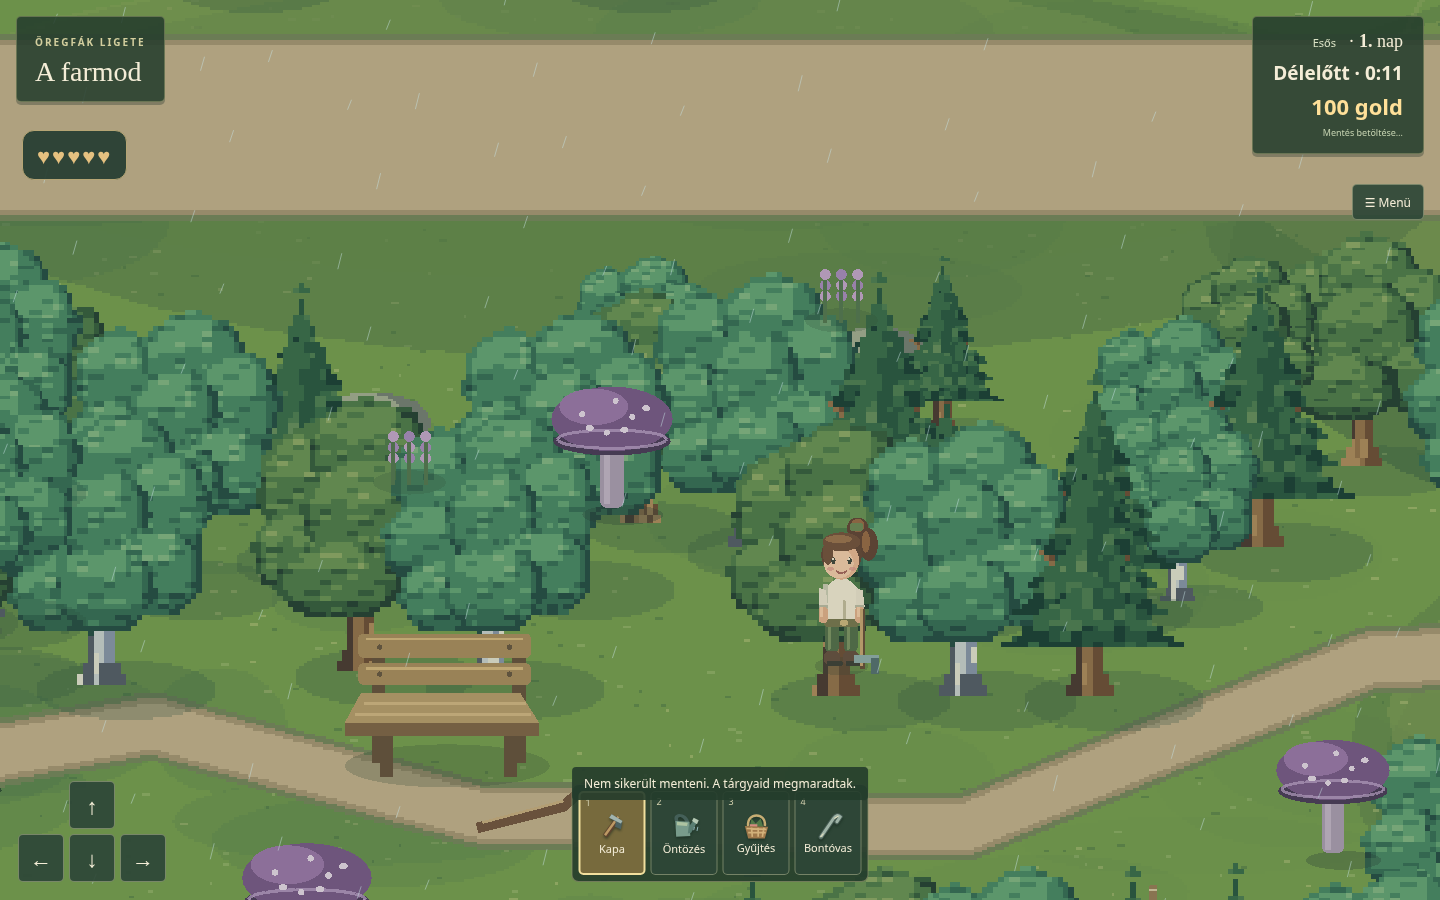
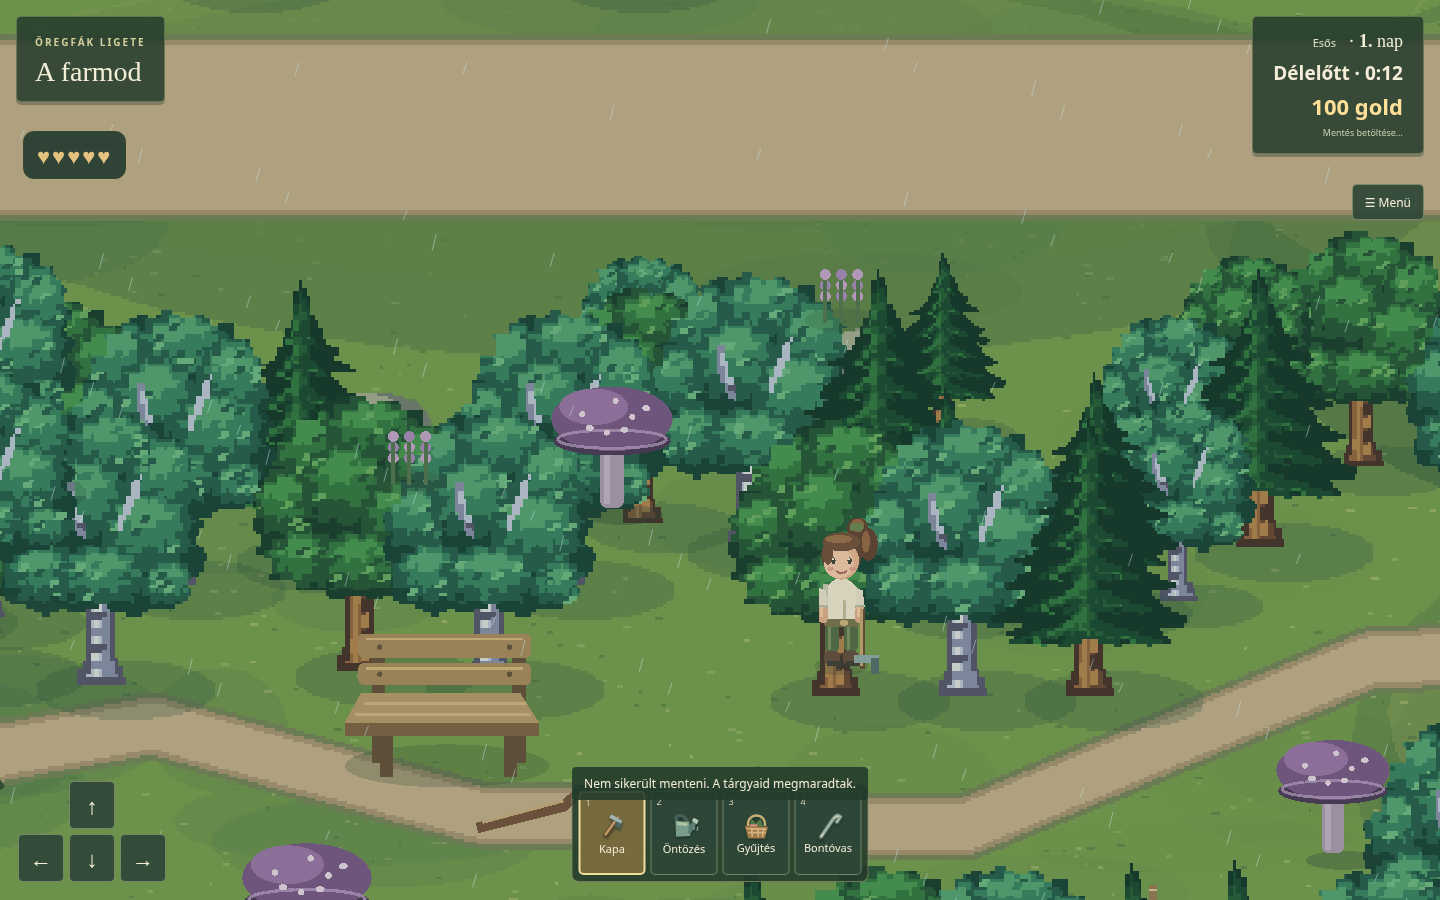
Rebuild woodland tree silhouettes and leaf folds from visual reference

diff --git a/src/woodland-tree.ts b/src/woodland-tree.ts
@@ -1,71 +1,81 @@
 import {natureTreeClear} from './nature-resources';
 import type Phaser from 'phaser';
 
-// Original pixel drawing inspired by the supplied reference; no external asset is used.
-// Logical pixels stay in the former tree envelope. Runs keep the static drawing small.
+// Hand-shaped original pixel silhouettes and leaf folds, using the user's image
+// as a style reference. World anchors, size and shared random consumption stay fixed.
 export function drawWoodlandTree(g:Phaser.GameObjects.Graphics,random:()=>number,x:number,y:number,kind:number,s=1){
  if(!natureTreeClear(x,y,s))return;
- let seed=0;
- if(kind!==2)for(let i=0;i<264;i++)seed=(seed+Math.floor(random()*65535))>>>0;
- const width=44,height=53,pixels=new Int32Array(width*height).fill(-1);
- const hash=(a:number,b:number)=>((Math.imul(a+seed,374761393)^Math.imul(b+17,668265263))>>>0);
- const put=(px:number,py:number,c:number)=>{const xx=Math.round(px/2)+22,yy=Math.round((py+100)/2);if(xx>=0&&xx<width&&yy>=0&&yy<height)pixels[yy*width+xx]=c;};
+ let seed=0;if(kind!==2)for(let i=0;i<264;i++)seed=(seed+Math.floor(random()*65535))>>>0;
+ const pixel=1.5,width=56,height=70,data=new Int32Array(width*height).fill(-1);
+ const hash=(a:number,b:number)=>((Math.imul(a+seed,374761393)^Math.imul(b+19,668265263))>>>0);
+ const put=(xx:number,yy:number,c:number)=>{const a=Math.round(xx/pixel)+28,b=Math.round((yy+99)/pixel);if(a>=0&&a<width&&b>=0&&b<height)data[b*width+a]=c;};
+ const shape=(points:number[],color:number)=>{
+  const ys=points.filter((_,i)=>i%2),min=Math.min(...ys),max=Math.max(...ys);
+  for(let row=Math.ceil((min+99)/pixel);row<=Math.floor((max+99)/pixel);row++){
+   const yy=row*pixel-99,cross:number[]=[];
+   for(let i=0,j=points.length-2;i<points.length;j=i,i+=2){const ax=points[j],ay=points[j+1],bx=points[i],by=points[i+1];if((ay>yy)!==(by>yy))cross.push(ax+(yy-ay)*(bx-ax)/(by-ay));}
+   cross.sort((a,b)=>a-b);
+   for(let k=0;k+1<cross.length;k+=2)for(let col=Math.ceil(cross[k]/pixel);col<=Math.floor(cross[k+1]/pixel);col++)put(col*pixel,yy,color);
+  }
+ };
  const birch=kind===1;
- const bark=birch?[0x535b61,0x8794a3,0xc7cec7,0xe0dfc8]:[0x49382b,0x6d4c30,0x927044,0xad8956];
- // Roots, taper and forked branches are visible between the leaf masses.
- for(let py=-55;py<=4;py+=2)for(let px=-8;px<=8;px+=2){
-  const root=py>0?8:py> -5?6:4;
-  if(Math.abs(px)>root)continue;
-  const h=hash(Math.floor(px/3),Math.floor(py/7));
-  let c=bark[px< -2?0:px<1?2:1];if(h%9===0)c=bark[3];
-  if(birch&&Math.floor((py+3)/8)%3===0&&px> -2)c=bark[0];
-  put(px,py,c);
+ const bark=birch?[0x545566,0x878fa5,0xbcc5d1,0xdce0da]:[0x453224,0x69472e,0x926539,0xb08349];
+ // Flared roots and a tapered trunk, with broad bark facets rather than dots.
+ shape([-9,5,-8,0,-5,-5,-5,-49,-2,-58,4,-55,5,-7,8,-1,10,5],bark[0]);
+ shape([-5,3,-3,-8,-3,-50,0,-56,2,-43,2,-7,5,3],bark[2]);
+ shape([0,2,1,-20,0,-28,2,-34,2,-47,4,-42,4,-5,7,3],bark[1]);
+ shape([-4,-4,-2,-10,-2,-25,0,-29,0,-20,-1,-15,0,-7,-1,3],bark[3]);
+ if(kind!==2){
+ shape([-2,-29,-12,-42,-18,-54,-14,-57,-8,-45,2,-36],bark[1]);
+ shape([1,-38,11,-52,16,-65,19,-64,15,-49,4,-31],bark[2]);
  }
- for(const side of [-1,1])for(let j=0;j<18;j++){
-  const px=side*j*.9,py=-25-j*1.4;
-  put(px,py,bark[1]);put(px-2,py,bark[birch?2:2]);
+ for(let i=0;i<7;i++){
+  const yy=-3-i*6;
+  if(birch)shape([-4,yy,-1,yy-1,2,yy-1,3,yy+1,-3,yy+2],i%2?bark[0]:bark[1]);
+  else shape([1,yy,3,yy-3,4,yy-2,3,yy+3,1,yy+4],i%2?bark[0]:bark[3]);
  }
+ const palette=kind===2?[0x123624,0x19492b,0x235f32,0x2e773b,0x428b49]:birch?[0x174333,0x255d47,0x37825b,0x53a36d,0x6cb77e]:[0x183d28,0x245631,0x32783c,0x45964b,0x64a95a];
  if(kind===2){
-  const palette=[0x193d2e,0x28553a,0x386a43,0x4c7b4b,0x648b55];
-  // Broken, drooping branch tiers, rather than separate triangular plates.
+  // A single stepped outline with long irregular, downturned branch fans.
+  shape([0,-98,3,-92,3,-86,7,-83,8,-76,14,-72,13,-69,21,-65,16,-63,11,-64,16,-58,23,-54,20,-51,28,-48,23,-46,18,-47,24,-40,32,-36,27,-33,22,-34,30,-27,38,-23,33,-20,25,-21,31,-15,19,-14,10,-15,3,-19,-4,-16,-14,-14,-25,-15,-30,-18,-25,-21,-38,-23,-28,-28,-23,-33,-32,-34,-27,-38,-21,-42,-27,-45,-18,-49,-23,-52,-17,-57,-11,-61,-18,-63,-11,-67,-7,-73,-5,-80,-2,-84,-2,-93],palette[0]);
   for(let tier=0;tier<6;tier++){
-   const top=-96+tier*11,half=8+tier*5;
-   for(let py=top;py<=top+26;py+=2)for(let px=-half;px<=half;px+=2){
-    const t=(py-top)/26,edge=half*t+(hash(Math.floor(py/4),tier)%3-1)*1.4;
-    if(Math.abs(px)>edge)continue;
-    const branch=Math.floor((px+half)/6),ripple=(branch%2)*3;
-    const shade=py>top+21-ripple?0:px<0?2:1;
-    const needle=hash(Math.floor(px/4),Math.floor(py/4)+tier)%7;
-    put(px,py,palette[Math.min(4,shade+(needle===0?2:needle<3?1:0))]);
-   }
+   const cy=-88+tier*12,w=6+tier*5;
+   const fan=[0,cy-6,3,cy,3,cy+5,w*.5,cy+9,w,cy+14,w*.6,cy+14,w*.3,cy+11,w*.45,cy+16,1,cy+12,-w*.4,cy+16,-w*.25,cy+11,-w,cy+14,-w*.6,cy+9,-3,cy+5,-2,cy];
+   shape(fan,palette[1]);
+   shape([-1,cy-3,2,cy+3,0,cy+7,w*.65,cy+13,w*.25,cy+12,-1,cy+9,-w*.6,cy+13,-w*.3,cy+7],palette[2]);
+   shape([-1,cy,0,cy+5,-w*.4,cy+10,-w*.6,cy+11,-w*.3,cy+7],palette[3]);
+   for(let j=0;j<8;j++){const xx=(j-3.5)*w*.18,yy=cy+6+Math.abs(j-3.5)*1.5;shape([xx,yy,xx+1.5,yy+1.5,xx+4,yy+4,xx+1.5,yy+3,xx-1.5,yy+1.5],j%3?palette[1]:palette[3]);}
   }
  }else{
-  const palette=birch?[0x234b3d,0x346b4f,0x47865e,0x62a16e,0x80b37b]:[0x233f2c,0x345b36,0x4d7943,0x68904e,0x8ba65f];
-  const lobes=birch?[
-   [-19,-72,17,19],[7,-78,20,18],[24,-62,16,21],[-24,-48,17,16],[0,-57,17,20],
-   [19,-38,18,17],[-17,-29,17,14],[0,-32,19,17]
-  ]:[[-19,-63,19,23],[2,-77,23,19],[24,-62,16,21],[-23,-40,18,17],[2,-53,24,23],[23,-35,16,16],[-8,-30,24,15]];
-  for(let l=0;l<lobes.length;l++){
-   const [cx,cy,rx,ry]=lobes[l];
-   for(let py=cy-ry;py<=cy+ry;py+=2)for(let px=cx-rx;px<=cx+rx;px+=2){
-    const dx=(px-cx)/rx,dy=(py-cy)/ry,a=Math.atan2(dy,dx);
-    const boundary=1+Math.sin(a*7+l)*.065+Math.sin(a*11-l)*.035;
-    const radius=dx*dx+dy*dy;if(radius>boundary)continue;
-    const blockX=Math.floor(px/5),blockY=Math.floor(py/4),h=hash(blockX+l*7,blockY);
-    // Connected light shapes sit above recessed lower/right leaf folds.
-    let shade=dy>.48||dx>.7?1:dy<-.2&&dx<.4?3:2;
-    if(radius>.78)shade=Math.max(0,shade-1);
-    const leafX=((px%5)+5)%5,leafY=((py%4)+4)%4;
-    if(h%5===0&&leafX<4&&leafY<2)shade=Math.min(4,shade+1);
-    else if(h%4===0&&leafY>1)shade=Math.max(0,shade-1);
-    put(px,py,palette[shade]);
+  // One coherent crown: forks/gaps in the birch, a dense rounded oak outline.
+  const silhouette=birch?[-12,-95,-6,-94,-2,-97,5,-94,13,-95,15,-91,23,-93,24,-86,29,-86,32,-79,35,-77,33,-70,38,-67,34,-60,38,-55,35,-48,40,-44,37,-36,32,-34,34,-28,27,-23,19,-24,14,-20,5,-22,1,-25,-8,-21,-15,-23,-20,-20,-29,-25,-34,-25,-37,-32,-35,-39,-40,-45,-37,-51,-40,-56,-35,-62,-32,-62,-33,-70,-29,-73,-29,-80,-23,-81,-24,-87,-18,-87,-18,-92]:[-8,-96,0,-97,5,-94,13,-96,17,-92,23,-92,23,-87,30,-86,30,-81,34,-79,33,-72,38,-69,36,-62,40,-59,38,-53,40,-48,36,-43,39,-38,34,-31,28,-29,25,-24,17,-22,11,-24,5,-21,-1,-24,-9,-21,-14,-25,-22,-24,-25,-29,-33,-30,-32,-36,-38,-39,-36,-45,-40,-49,-37,-55,-39,-60,-35,-64,-36,-70,-31,-73,-30,-80,-24,-81,-23,-88,-16,-88,-14,-94];
+  shape(silhouette,palette[0]);
+  const crownMask=data.map(c=>c===-1?0:1);
+  const patches=[
+   [-19,-79,17,15],[4,-85,18,13],[23,-72,14,17],[-28,-58,12,13],[-6,-65,17,17],
+   [17,-53,18,16],[-22,-37,14,12],[0,-36,18,12],[25,-33,10,9]
+  ];
+  for(let k=0;k<patches.length;k++){
+   const [cx,cy,rx,ry]=patches[k],p=(coords:number[])=>coords.map((v,i)=>i%2?cy+v*ry:cx+v*rx);
+   // Irregular interlocking leaf fingers: no circular base or concentric highlight.
+   shape(p([-.9,.15,-1,-.2,-.7,-.3,-.8,-.65,-.45,-.65,-.4,-.95,0,-.85,.25,-1,.45,-.7,.8,-.75,.75,-.4,1,-.2,.85,.15,1,.45,.65,.55,.7,.9,.3,.8,.1,1,-.2,.8,-.6,.9,-.55,.55,-.95,.5]),palette[1]);
+   shape(p([-.85,-.15,-.55,-.25,-.65,-.55,-.3,-.5,-.25,-.8,.1,-.7,.3,-.85,.45,-.55,.75,-.55,.65,-.2,.85,0,.55,.1,.7,.35,.35,.3,.4,.6,.05,.4,-.15,.6,-.3,.3,-.65,.4,-.55,.05]),palette[2]);
+   shape(p([-.55,-.45,-.3,-.45,-.2,-.7,.05,-.6,.25,-.7,.4,-.4,.6,-.4,.45,-.15,.2,-.2,.1,.05,-.1,-.05,-.35,.1,-.3,-.2,-.6,-.1]),palette[3]);
+   for(let j=0;j<8;j++){
+    const a=hash(k*13+j,k+3),xx=cx-rx*.65+(a%13)/12*rx*1.3,yy=cy-ry*.55+((a>>>8)%11)/10*ry*1.1;
+    shape([xx,yy,xx+3,yy,xx+3,yy+1.5,xx+1.5,yy+1.5,xx+1.5,yy+3,xx-1.5,yy+3,xx-1.5,yy+1.5,xx,yy+1.5],j%3===0?palette[4]:j%3===1?palette[1]:palette[2]);
    }
   }
+  if(birch){
+   // Small real gaps preserve the pale branching visible in the reference.
+   shape([-13,-70,-10,-70,-9,-58,-5,-53,-5,-47,-9,-52,-12,-60],bark[1]);
+   shape([-11,-67,-9,-64,-7,-55,-5,-51,-7,-52,-10,-59],bark[2]);
+   shape([12,-69,15,-72,13,-62,9,-56,8,-51,6,-52,8,-60],bark[2]);
+   shape([-8,-55,-6,-54,-6,-52,-8,-53],bark[0]);
+  }
+  // Keep all leaf fingers inside the hand-drawn silhouette.
+  for(let i=0;i<data.length;i++)if(!crownMask[i])data[i]=-1;
  }
  g.fillStyle(0x294d3a,.25).fillEllipse(x+10*s,y+8*s,67*s,22*s);
- for(let row=0;row<height;row++)for(let col=0;col<width;){
-  const color=pixels[row*width+col];let end=col+1;while(end<width&&pixels[row*width+end]===color)end++;
-  if(color!==-1)g.fillStyle(color).fillRect(x+(col-22)*2*s,y+(row*2-100)*s,(end-col)*2*s,2*s);
-  col=end;
- }
+ for(let row=0;row<height;row++)for(let col=0;col<width;){const c=data[row*width+col];let end=col+1;while(end<width&&data[row*width+end]===c)end++;if(c!==-1)g.fillStyle(c).fillRect(x+(col-28)*pixel*s,y+(row*pixel-99)*s,(end-col)*pixel*s,pixel*s);col=end;}
 }

diff --git a/docs/jatekterv.md b/docs/jatekterv.md
@@ -1581,3 +1581,5 @@ A lomb finomításának felhasználói visszajelzése: a nagy, egymásra rajzolt
 ### Három erdei fafajta a felhasználó képi referenciája alapján
 
 A túl pacás, majd túl szemcsés lomb helyett a felhasználó csatolt képe adja az irányt: határozott pixelkontúr, összefüggő szabálytalan levéltömegek, mély lombközi árnyékok, látható elágazások és részletes törzs. A nyír világos kérgű és lazább koronájú, a lombos fa tömöttebb, a fenyő lefelé hajló, szabálytalan ágszintekkel készül. Saját procedurális rajz, nem a külső kép kivágása vagy assetként történő felhasználása. A helyek, az ütközések és a megosztott véletlenszám-fogyasztás megmaradnak. Ez a három erdei fafajta korábbi lombfinomítását felülírja; a gyümölcsfák külön rajzolása most nem változik.
+
+A felhasználó kifejezett pontosítása: a nyír, lombos fa és fenyő korábbi játékbeli grafikai stílusa nem kötöttség. Teljesen új rajz készülhet a csatolt referencia alapján; csak az elhelyezés, méret és képarány maradjon meg. A második átdolgozás egységes, kézzel meghatározott sziluetteket, szabálytalan levélredőket, sötét réseket, valamint hangsúlyosabb gyökér- és törzsrajzot használ.

diff --git a/docs/qa/0.3.0-reference-tree-redraw.md b/docs/qa/0.3.0-reference-tree-redraw.md
@@ -1,0 +1,10 @@
+# A három fafajta teljes újrarajzolása
+
+A felhasználó a korábbi játékbeli stílus elhagyását kérte a mellékelt referencia javára; csak a hely, méret és képarány kötött. Az új rajz saját, kézzel megadott pixelkontúrokat és szabálytalan levélredőket használ. Nincsenek elliptikus koronák vagy körkörös lombfoltok. Világos, elágazó nyírtörzs, meleg barna lombosfatörzs, sötét, lefelé hajló fenyőágak különböztetik meg a fajokat.
+
+A közös véletlenszám-fogyasztás, a fák helye és ütközése változatlan. A statikus gyorsítótárazás megmarad. A gyümölcsfák külön rajzához nincs módosítás. Külső assetet nem építünk be.
+
+Ellenőrzés: teljes Vitest és TypeScript/Vite build; elkülönített Chromium/CDP a normál játékból. A referencia-összehasonlító kép csak böngészős ellenőrzés: ugyanaz a három rajz egymás mellé helyezve, nem új játékon belüli tesztmód. A normál erdei képen az elhelyezés és a rétegzés ellenőrizhető.
+
+- `production-three-trees-reference-comparison.png`
+- `production-woodland-refined-trees.png`
